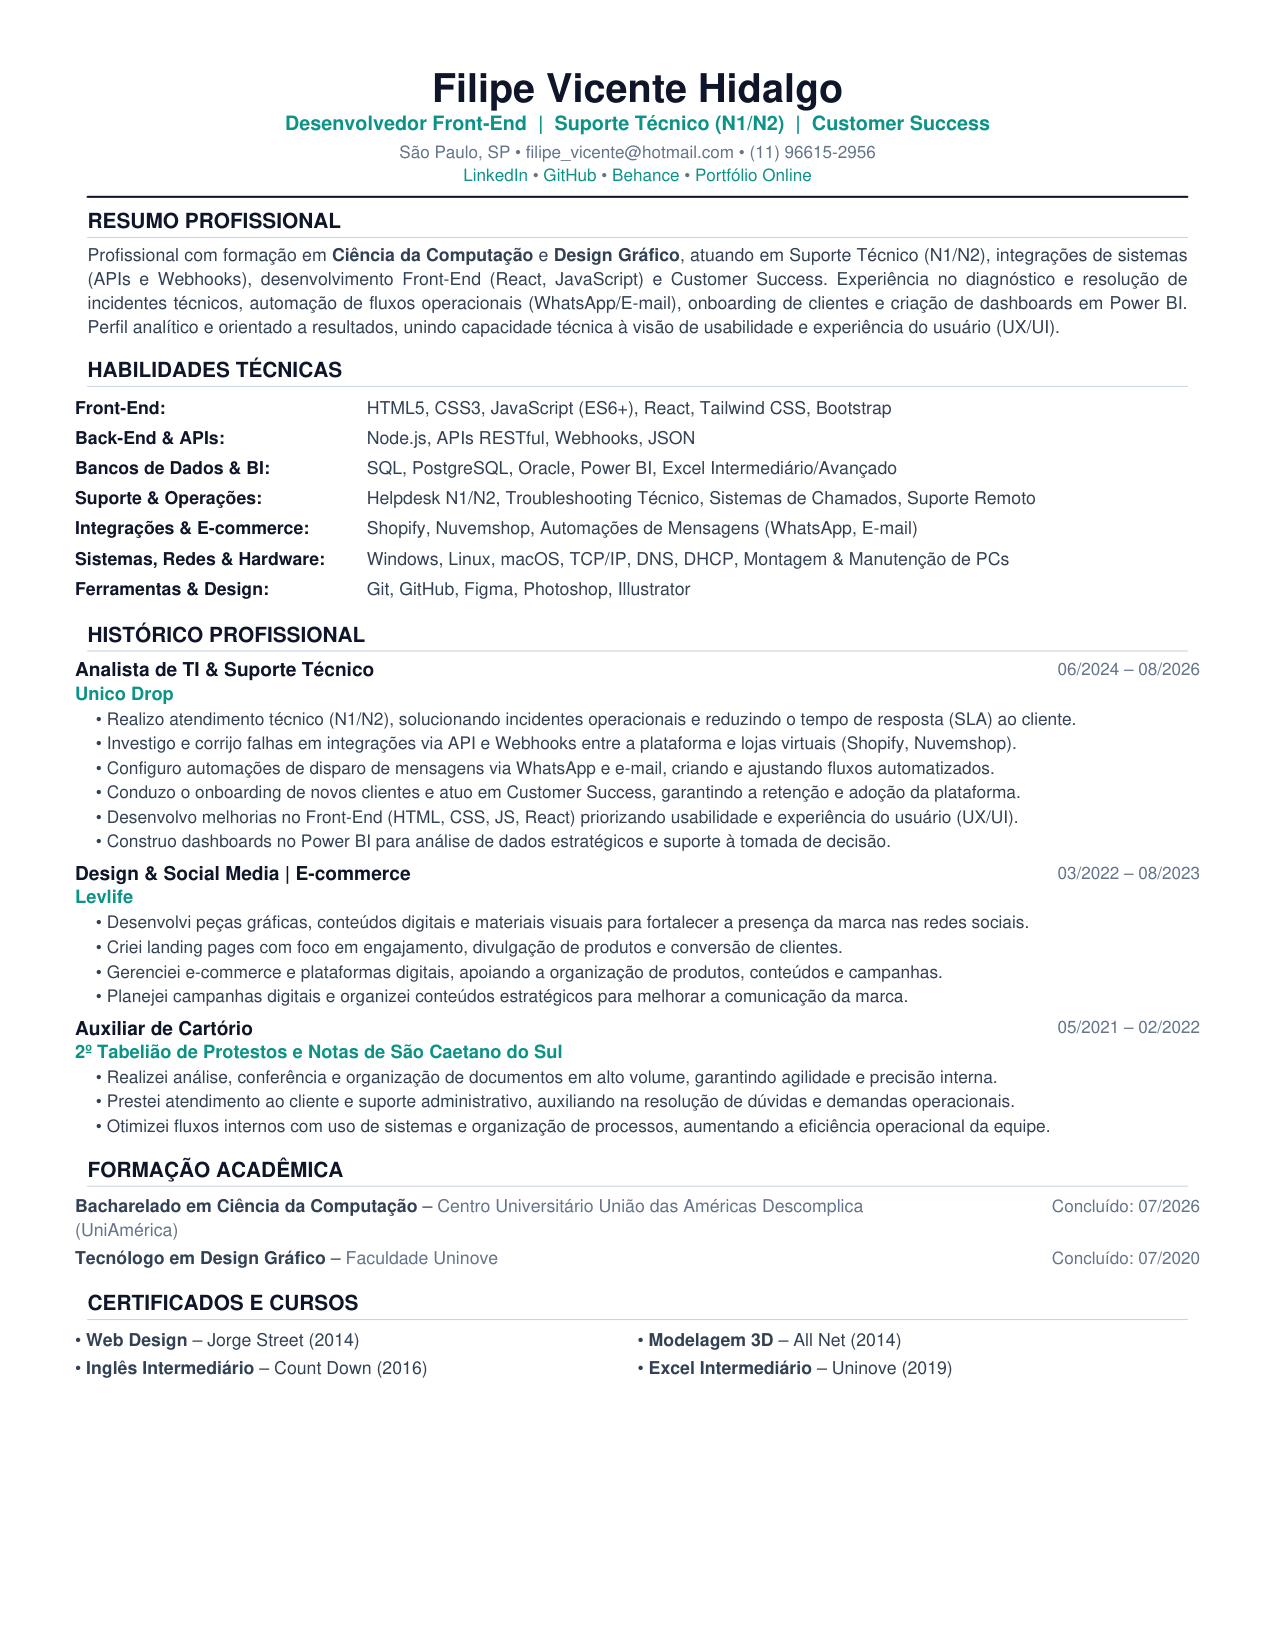
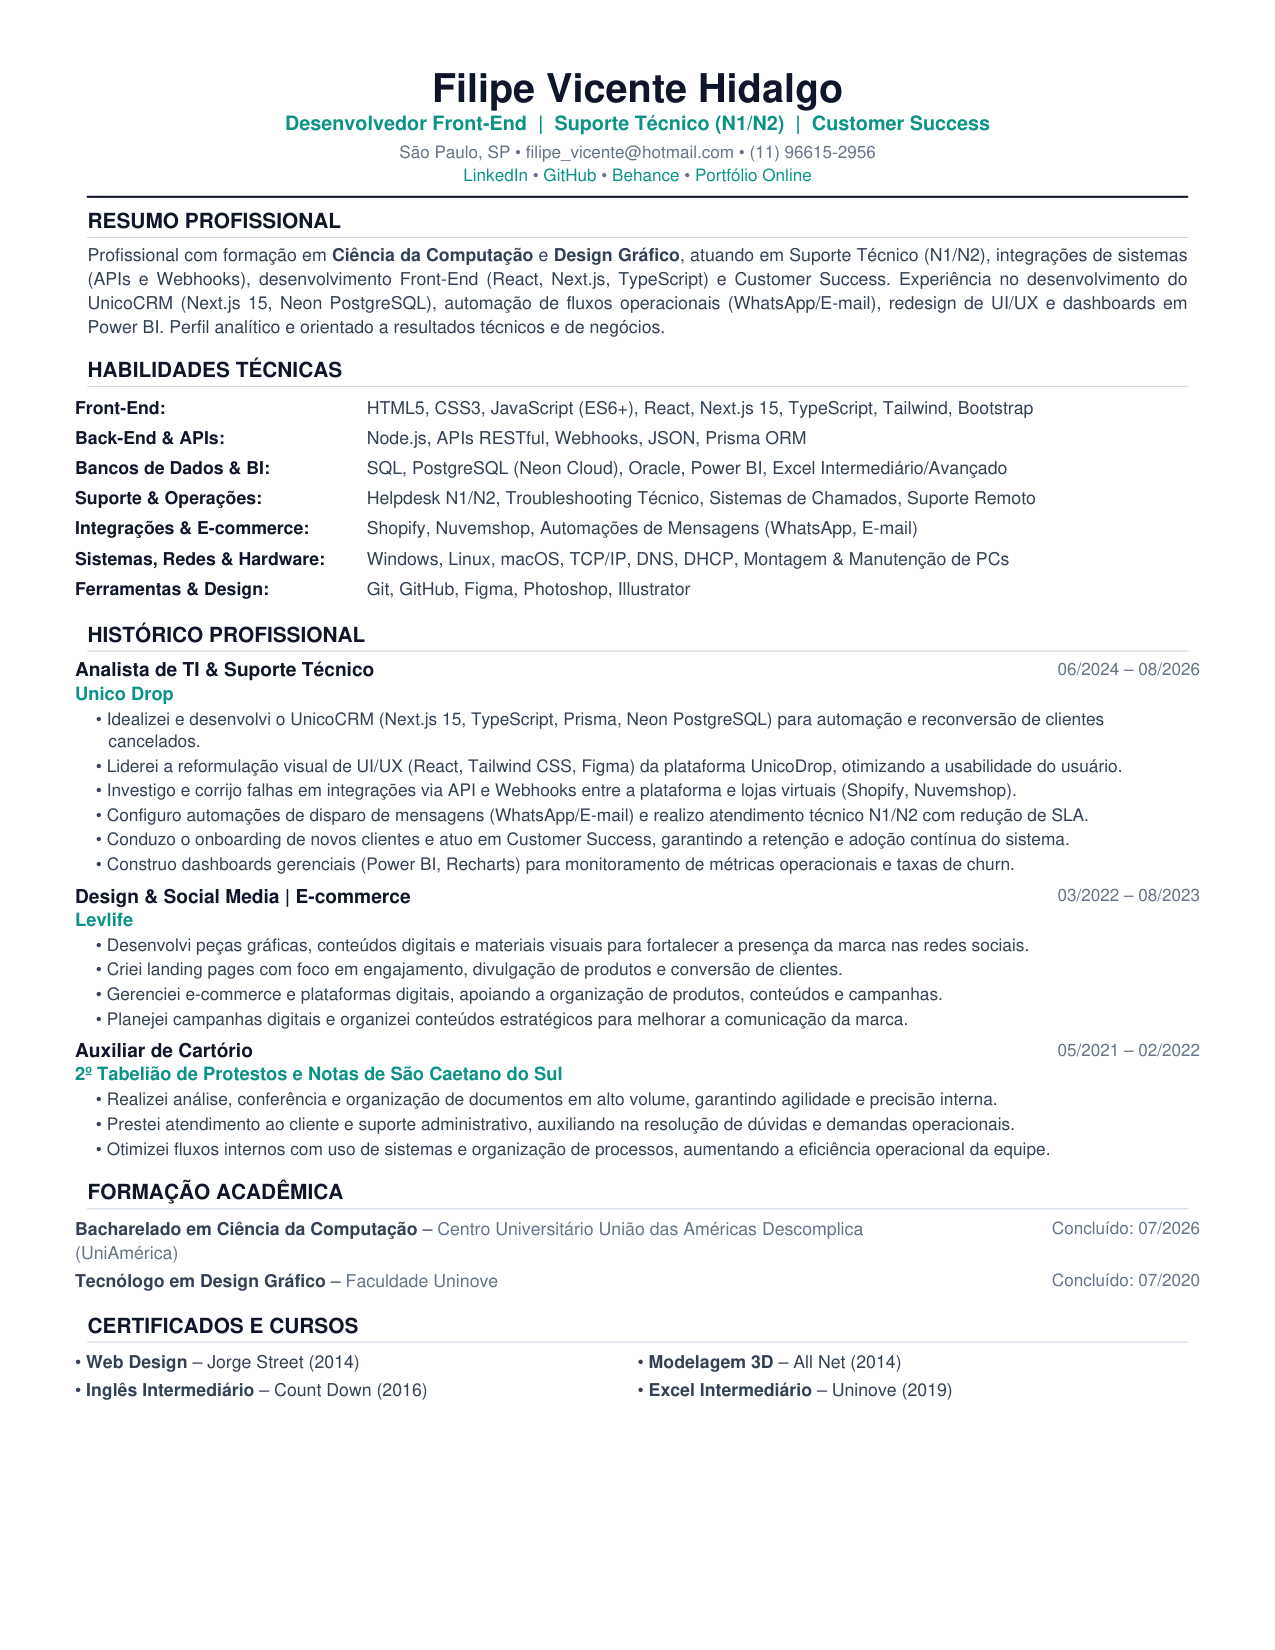
feat: add visual image mockups to projects section and update PDF resume with projects

diff --git a/src/components/Projects.jsx b/src/components/Projects.jsx
@@ -4,6 +4,7 @@ const projects = [
   {
     title: 'UnicoCRM — Gestão de Retenção & Clientes Cancelados',
     subtitle: 'Sistema CRM para Acompanhamento e Reconversão de Churn',
+    image: '/projects/unicocrm.jpg',
     challenge: 'Falta de um fluxo centralizado para acompanhar clientes cancelados do UnicoDrop, gerando perda de histórico e dificultando ações de retenção.',
     solution: 'Desenvolvimento de um sistema CRM completo do zero utilizando Next.js 15 (App Router + TypeScript), ORM Prisma, banco de dados Serverless Neon PostgreSQL e dashboards de métricas com Recharts.',
     result: 'Estruturação do processo de acompanhamento de cancelamentos em tempo real, permitindo identificar motivos de churn e executar estratégias diretas de reconversão de clientes.',
@@ -14,6 +15,7 @@ const projects = [
   {
     title: 'Redesign Visual de Interface — Plataforma UnicoDrop',
     subtitle: 'Reformulação Completa de UI/UX e Frontend da Aplicação',
+    image: '/projects/telasunico.jpg',
     challenge: 'Interface do usuário necessitava de modernização estética e estrutural para melhorar a usabilidade e a taxa de retenção dos clientes na plataforma.',
     solution: 'Prototipagem de telas no Figma focando na usabilidade (UI/UX) e recodificação completa dos componentes visuais utilizando React e Tailwind CSS.',
     result: 'Interface responsiva, limpa e alinhada aos padrões modernos de software SaaS, reduzindo o atrito na navegação do usuário final e aumentando a satisfação visual.',
@@ -24,6 +26,7 @@ const projects = [
   {
     title: 'Painel & Análise de Dados Operacionais',
     subtitle: 'Dashboards Integrados de Atendimento e Métricas de TI',
+    image: '/projects/painelunico.jpg',
     challenge: 'Ausência de visão consolidada sobre volume de chamados N1/N2, tempo de atendimento (SLA) e recorrência de incidentes técnicos.',
     solution: 'Construção de painel gerencial em React integrado com dashboards interativos em Power BI para monitoramento de dados operacionais.',
     result: 'Tomada de decisão baseada em dados reais pela gestão, acelerando o diagnóstico de falhas em integrações e a eficiência no suporte técnico.',
@@ -46,32 +49,34 @@ export default function Projects() {
           <span className="num">03.</span> Projetos em Destaque
         </h2>
 
-        <div className="space-y-8">
+        <div className="space-y-12">
           {projects.map((proj, i) => (
             <motion.div
               key={i}
-              initial={{ opacity: 0, y: 20 }}
+              initial={{ opacity: 0, y: 25 }}
               whileInView={{ opacity: 1, y: 0 }}
               viewport={{ once: true }}
               transition={{ duration: 0.4, delay: i * 0.1 }}
-              className="bg-navy-light p-6 md:p-8 rounded-lg border border-navy-lighter/40 hover:border-teal/30 transition-all duration-300 relative group"
+              className="bg-navy-light rounded-xl border border-navy-lighter/40 hover:border-teal/40 transition-all duration-300 overflow-hidden shadow-xl"
             >
-              <div className="flex flex-col md:flex-row justify-between items-start md:items-center gap-2 mb-4">
-                <div>
-                  <h3 className="text-lightest-slate text-xl font-bold group-hover:text-teal transition-colors">
-                    {proj.title}
-                  </h3>
-                  <p className="text-teal font-mono text-xs mt-1">{proj.subtitle}</p>
+              {/* Top Browser Bar Mockup */}
+              <div className="bg-navy-darker/80 px-4 py-3 border-b border-navy-lighter/30 flex items-center justify-between">
+                <div className="flex items-center gap-2">
+                  <span className="w-3 h-3 rounded-full bg-red-500/80 inline-block"></span>
+                  <span className="w-3 h-3 rounded-full bg-yellow-500/80 inline-block"></span>
+                  <span className="w-3 h-3 rounded-full bg-green-500/80 inline-block"></span>
+                  <span className="font-mono text-xs text-slate ml-2 hidden sm:inline-block">
+                    {proj.title.split('—')[0].trim()}
+                  </span>
                 </div>
                 {proj.github && (
                   <a
                     href={proj.github}
                     target="_blank"
                     rel="noreferrer"
-                    className="text-slate hover:text-teal transition-colors shrink-0 mt-2 md:mt-0 flex items-center gap-2 font-mono text-xs border border-navy-lighter px-3 py-1.5 rounded hover:border-teal/50"
-                    aria-label="GitHub Repository"
+                    className="text-slate hover:text-teal transition-colors flex items-center gap-1.5 font-mono text-xs bg-navy-lighter/30 px-3 py-1 rounded hover:bg-navy-lighter/50"
                   >
-                    <svg width="16" height="16" viewBox="0 0 24 24" fill="none" stroke="currentColor" strokeWidth="2">
+                    <svg width="14" height="14" viewBox="0 0 24 24" fill="none" stroke="currentColor" strokeWidth="2">
                       <path d="M15 22v-4a4.8 4.8 0 0 0-1-3.5c3 0 6-2 6-5.5.08-1.25-.27-2.48-1-3.5.28-1.15.28-2.35 0-3.5 0 0-1 0-3 1.5-2.64-.5-5.36-.5-8 0C6 2 5 2 5 2c-.3 1.15-.3 2.35 0 3.5A5.403 5.403 0 0 0 4 9c0 3.5 3 5.5 6 5.5-.39.49-.68 1.05-.85 1.65-.17.6-.22 1.23-.15 1.85v4"/>
                       <path d="M9 18c-4.51 2-5-2-7-2"/>
                     </svg>
@@ -80,40 +85,55 @@ export default function Projects() {
                 )}
               </div>
 
-              {/* Problem / Solution / Result Grid */}
-              <div className="grid md:grid-cols-3 gap-4 my-5 bg-navy/60 p-4 rounded-md border border-navy-lighter/20 text-sm">
-                <div>
-                  <span className="text-teal font-mono text-xs uppercase tracking-wider block mb-1">
-                    🎯 O Desafio
-                  </span>
-                  <p className="text-slate text-xs leading-relaxed">{proj.challenge}</p>
+              {/* Grid: Visual Showcase Image + Project Details */}
+              <div className="grid lg:grid-cols-12 gap-0">
+                {/* Visual Image Preview Frame */}
+                <div className="lg:col-span-5 relative overflow-hidden bg-navy-darker flex items-center justify-center group">
+                  <img
+                    src={proj.image}
+                    alt={proj.title}
+                    className="w-full h-full object-cover object-top min-h-[220px] max-h-[280px] lg:max-h-full group-hover:scale-105 transition-transform duration-500 opacity-90 group-hover:opacity-100"
+                  />
+                  <div className="absolute inset-0 bg-gradient-to-t from-navy-light via-transparent to-transparent lg:bg-gradient-to-r lg:from-transparent lg:to-navy-light pointer-events-none"></div>
                 </div>
-                <div>
-                  <span className="text-teal font-mono text-xs uppercase tracking-wider block mb-1">
-                    💻 A Solução
-                  </span>
-                  <p className="text-slate text-xs leading-relaxed">{proj.solution}</p>
-                </div>
-                <div>
-                  <span className="text-teal font-mono text-xs uppercase tracking-wider block mb-1">
-                    📈 O Resultado
-                  </span>
-                  <p className="text-lightest-slate text-xs leading-relaxed font-medium">
-                    {proj.result}
-                  </p>
-                </div>
-              </div>
 
-              {/* Technologies Badges */}
-              <div className="flex flex-wrap gap-2 mt-4">
-                {proj.tags.map((tag, j) => (
-                  <span
-                    key={j}
-                    className="px-3 py-1 text-xs font-mono text-teal bg-teal-tint rounded-full"
-                  >
-                    {tag}
-                  </span>
-                ))}
+                {/* Project Context & Details */}
+                <div className="lg:col-span-7 p-6 md:p-8 flex flex-col justify-between">
+                  <div>
+                    <h3 className="text-lightest-slate text-xl font-bold mb-1">{proj.title}</h3>
+                    <p className="text-teal font-mono text-xs mb-4">{proj.subtitle}</p>
+
+                    {/* Challenge, Solution, Result Pills */}
+                    <div className="space-y-3 text-xs mb-5">
+                      <div className="bg-navy/50 p-3 rounded border border-navy-lighter/20">
+                        <span className="text-teal font-mono font-semibold block mb-0.5">🎯 Desafio:</span>
+                        <p className="text-slate leading-relaxed">{proj.challenge}</p>
+                      </div>
+
+                      <div className="bg-navy/50 p-3 rounded border border-navy-lighter/20">
+                        <span className="text-teal font-mono font-semibold block mb-0.5">💻 Solução Técnica:</span>
+                        <p className="text-slate leading-relaxed">{proj.solution}</p>
+                      </div>
+
+                      <div className="bg-teal/10 p-3 rounded border border-teal/20">
+                        <span className="text-teal font-mono font-semibold block mb-0.5">📈 Resultado de Negócio:</span>
+                        <p className="text-lightest-slate leading-relaxed font-medium">{proj.result}</p>
+                      </div>
+                    </div>
+                  </div>
+
+                  {/* Tech Badges */}
+                  <div className="flex flex-wrap gap-1.5 pt-2">
+                    {proj.tags.map((tag, j) => (
+                      <span
+                        key={j}
+                        className="px-2.5 py-0.5 text-xs font-mono text-teal bg-teal-tint rounded-full border border-teal/20"
+                      >
+                        {tag}
+                      </span>
+                    ))}
+                  </div>
+                </div>
               </div>
             </motion.div>
           ))}

diff --git a/generate_pdf.py b/generate_pdf.py
@@ -159,30 +159,29 @@ def create_resume(output_filename):
     story.append(HRFlowable(width="100%", thickness=0.5, color=LINE_COLOR, spaceBefore=1, spaceAfter=3))
     summary_p = (
         "Profissional com formação em <b>Ciência da Computação</b> e <b>Design Gráfico</b>, atuando em Suporte Técnico (N1/N2), "
-        "integrações de sistemas (APIs e Webhooks), desenvolvimento Front-End (React, JavaScript) e Customer Success. "
-        "Experiência no diagnóstico e resolução de incidentes técnicos, automação de fluxos operacionais (WhatsApp/E-mail), "
-        "onboarding de clientes e criação de dashboards em Power BI. Perfil analítico e orientado a resultados, unindo capacidade técnica "
-        "à visão de usabilidade e experiência do usuário (UX/UI)."
+        "integrações de sistemas (APIs e Webhooks), desenvolvimento Front-End (React, Next.js, TypeScript) e Customer Success. "
+        "Experiência no desenvolvimento do UnicoCRM (Next.js 15, Neon PostgreSQL), automação de fluxos operacionais (WhatsApp/E-mail), "
+        "redesign de UI/UX e dashboards em Power BI. Perfil analítico e orientado a resultados técnicos e de negócios."
     )
     story.append(Paragraph(summary_p, body_style))
     story.append(Spacer(1, 3))
 
-    # 3. HABILIDADES TÉCNICAS (Clean 2-Column Key-Value Table)
+    # 3. HABILIDADES TÉCNICAS
     story.append(Paragraph("HABILIDADES TÉCNICAS", section_heading_style))
     story.append(HRFlowable(width="100%", thickness=0.5, color=LINE_COLOR, spaceBefore=1, spaceAfter=3))
 
     skills_data = [
         [
             Paragraph("<b>Front-End:</b>", skill_label_style),
-            Paragraph("HTML5, CSS3, JavaScript (ES6+), React, Tailwind CSS, Bootstrap", skill_val_style)
+            Paragraph("HTML5, CSS3, JavaScript (ES6+), React, Next.js 15, TypeScript, Tailwind, Bootstrap", skill_val_style)
         ],
         [
             Paragraph("<b>Back-End & APIs:</b>", skill_label_style),
-            Paragraph("Node.js, APIs RESTful, Webhooks, JSON", skill_val_style)
+            Paragraph("Node.js, APIs RESTful, Webhooks, JSON, Prisma ORM", skill_val_style)
         ],
         [
             Paragraph("<b>Bancos de Dados & BI:</b>", skill_label_style),
-            Paragraph("SQL, PostgreSQL, Oracle, Power BI, Excel Intermediário/Avançado", skill_val_style)
+            Paragraph("SQL, PostgreSQL (Neon Cloud), Oracle, Power BI, Excel Intermediário/Avançado", skill_val_style)
         ],
         [
             Paragraph("<b>Suporte & Operações:</b>", skill_label_style),
@@ -237,12 +236,12 @@ def create_resume(output_filename):
     story.append(Spacer(1, 1.5))
 
     j1_bullets = [
-        "Realizo atendimento técnico (N1/N2), solucionando incidentes operacionais e reduzindo o tempo de resposta (SLA) ao cliente.",
+        "Idealizei e desenvolvi o UnicoCRM (Next.js 15, TypeScript, Prisma, Neon PostgreSQL) para automação e reconversão de clientes cancelados.",
+        "Liderei a reformulação visual de UI/UX (React, Tailwind CSS, Figma) da plataforma UnicoDrop, otimizando a usabilidade do usuário.",
         "Investigo e corrijo falhas em integrações via API e Webhooks entre a plataforma e lojas virtuais (Shopify, Nuvemshop).",
-        "Configuro automações de disparo de mensagens via WhatsApp e e-mail, criando e ajustando fluxos automatizados.",
-        "Conduzo o onboarding de novos clientes e atuo em Customer Success, garantindo a retenção e adoção da plataforma.",
-        "Desenvolvo melhorias no Front-End (HTML, CSS, JS, React) priorizando usabilidade e experiência do usuário (UX/UI).",
-        "Construo dashboards no Power BI para análise de dados estratégicos e suporte à tomada de decisão."
+        "Configuro automações de disparo de mensagens (WhatsApp/E-mail) e realizo atendimento técnico N1/N2 com redução de SLA.",
+        "Conduzo o onboarding de novos clientes e atuo em Customer Success, garantindo a retenção e adoção contínua do sistema.",
+        "Construo dashboards gerenciais (Power BI, Recharts) para monitoramento de métricas operacionais e taxas de churn."
     ]
     for bullet in j1_bullets:
         story.append(Paragraph(f"&bull; {bullet}", bullet_style))
